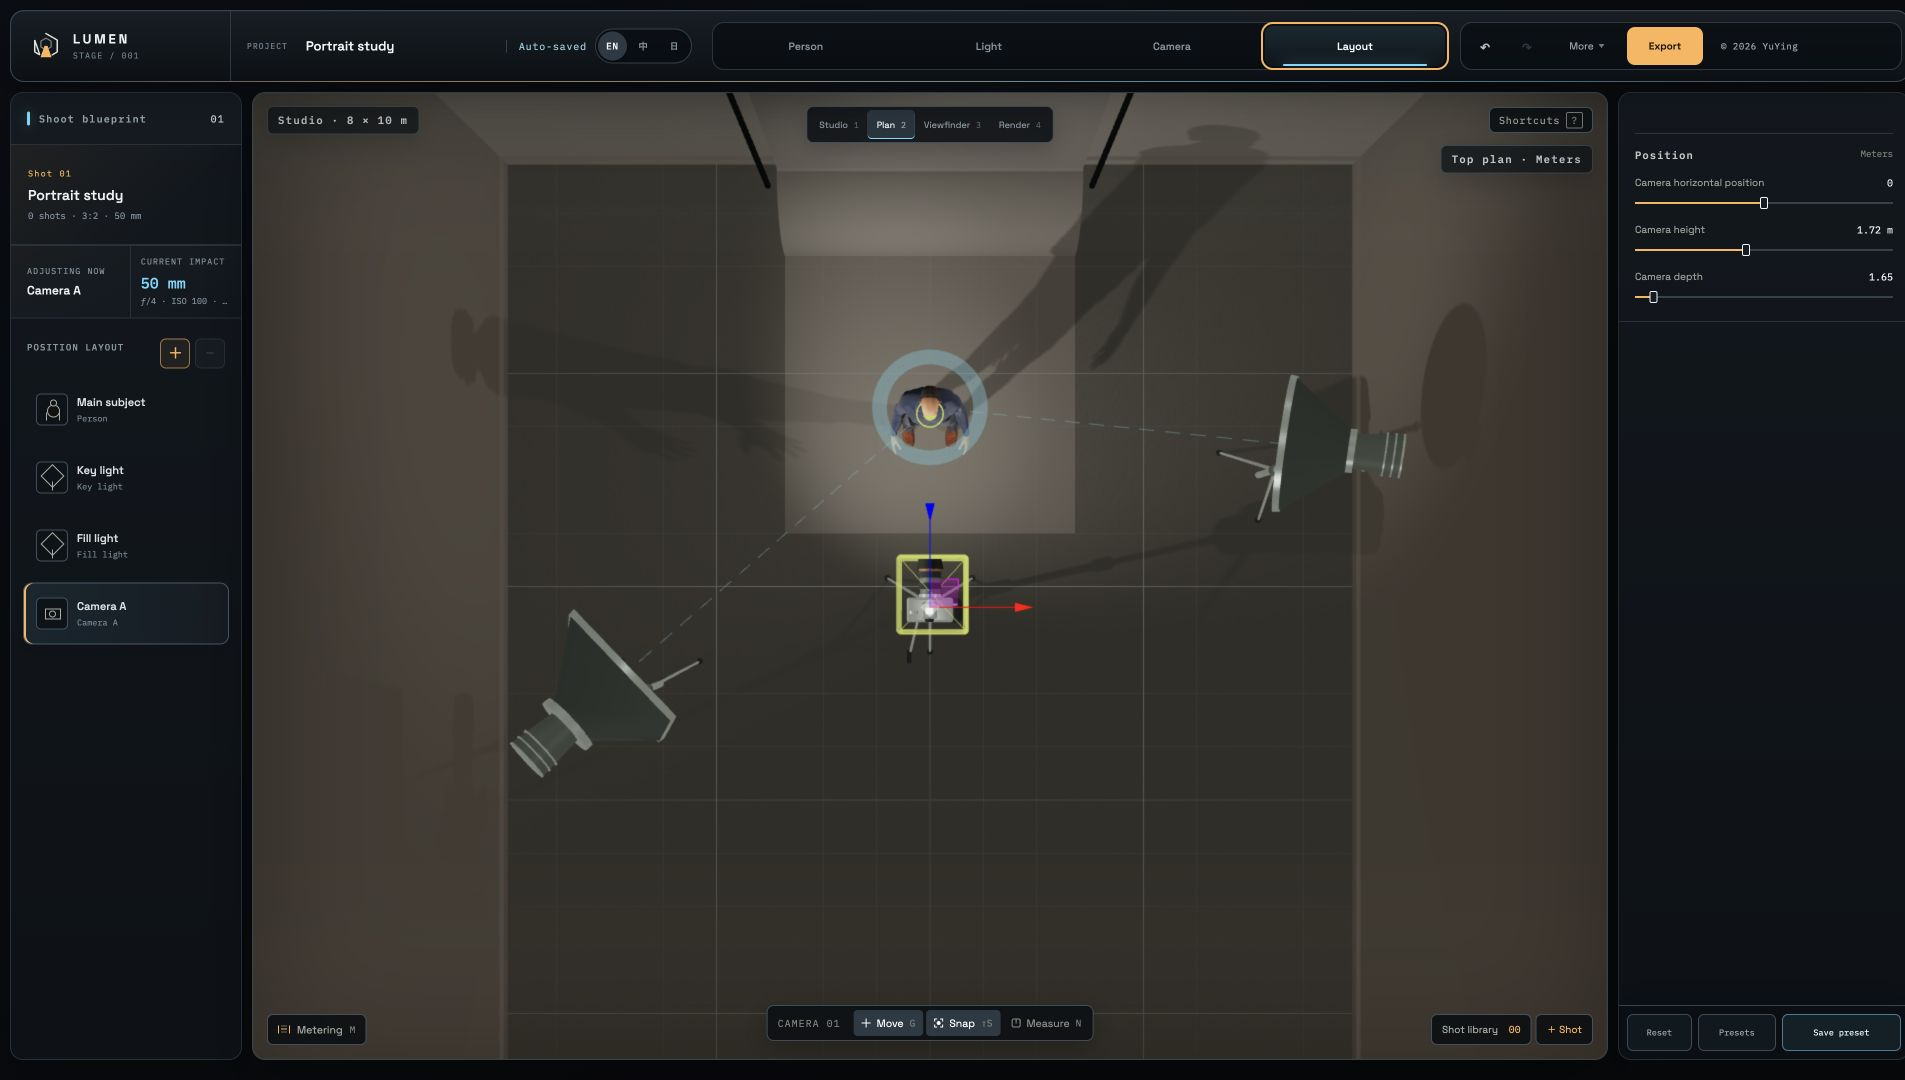
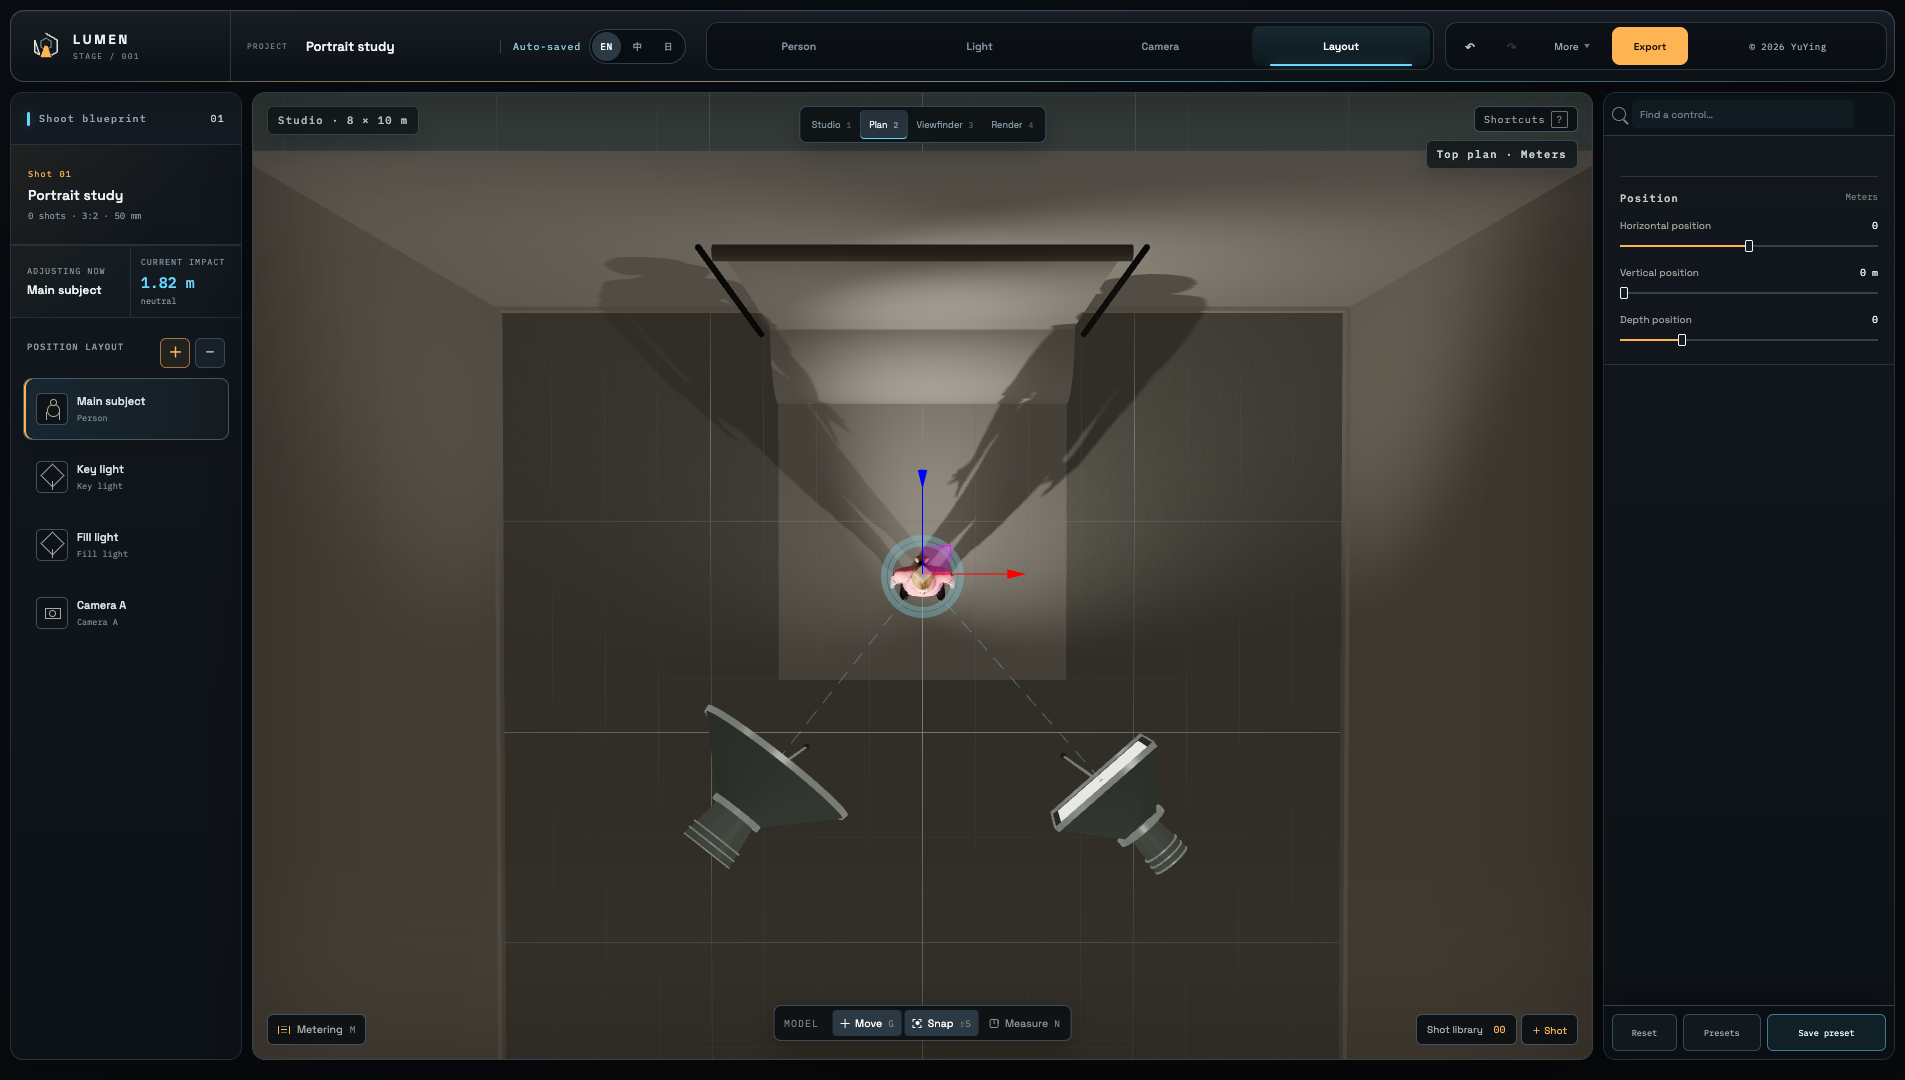
Refresh v1 showcase documentation and visuals in English and Traditional Chinese

diff --git a/README.md b/README.md
@@ -1,65 +1,91 @@
-# Lumen Stage
+# Lumen Stage · v1
 
 **Plan the light. Frame the shot.**
 
-Lumen Stage is a browser-based virtual photography studio for planning lighting, camera, subject, and backdrop decisions before a real shoot.
+A browser-based virtual photography studio for arranging people, lights, cameras and backdrops before a real shoot.
 
-[Open the live website](https://lumen-stage.vercel.app/)
+**First release** · Free to use · Desktop and mobile · English / 繁體中文 / 日本語
 
-![Lumen Stage virtual photography studio](lumen-stage-cover.jpg)
+[Open Lumen Stage](https://lumen-stage.vercel.app/) · [繁體中文介紹](README.zh-TW.md)
 
-## What it helps you plan
+![Lumen Stage v1 homepage, with the shared dark, cyan and amber visual system](homepage-v1.png)
 
-- Build a scene with subjects, lights, cameras, and backdrops in one shared 3D space.
-- Work with photographic controls such as distance, focal length, aperture, illuminance, colour temperature, and modifiers.
-- Review the studio, camera frame, rendered result, and top-down layout without rebuilding the setup.
-- Start from 15 classic lighting setups, including Rembrandt, three-point, and clamshell lighting.
-- Save projects locally, compare decisions, and export a setup for use on set.
+## From an idea to a shoot plan
 
-## Two workspace modes
+1. **Choose a starting point.** Load one of 15 lighting setups, including Rembrandt, three-point and clamshell lighting.
+2. **Choose your subject.** Browse the studio's 12 character options, then adjust position, height and pose.
+3. **Arrange the light.** Work with distance, direction, output, colour temperature and light modifiers.
+4. **Frame the photograph.** Adjust focal length, aperture and ISO; check the viewfinder before rendering.
+5. **Take the plan with you.** Save the scene, export the project or prepare a lighting setup sheet.
 
-**Simple mode** keeps the essential controls visible for first-time users and photography learners.
+![Three built-in lighting setup examples on the v1 website](lighting-setups-v1.png)
 
-**Professional mode** provides the complete lighting, camera, metering, continuity, preset, and export workflow.
+## A scene you can work in
 
-Both modes use the same scene format, so a project can move between them without being rebuilt.
+### Position people and lights
 
-## A continuous photography workflow
+![Professional workspace showing a selected key light and the shared 3D scene](studio-workspace.png)
 
-### Arrange the scene
+The subject, lights, camera and backdrop occupy the same measurable space. In Layout view, drag unlocked objects directly in the viewport, including with touch. Use the numeric controls when you need a precise position.
 
-![The Lumen Stage studio workspace](studio-workspace.png)
+### Check the layout from above
 
-Position the subject, build the lighting pattern, and adjust the scene with measurable spatial controls.
+![Top-down view showing the subject, lights, camera and backdrop](layout-view.png)
 
-### Confirm the layout
+Switch between studio, top-down plan, viewfinder and render views while keeping the same scene. The plan view makes spacing and lighting direction easier to inspect.
 
-![Top-down layout view](layout-view.png)
+### Confirm framing and exposure
 
-Review the relationship between the subject, lights, camera, and backdrop from above before going on set.
+![Simple workspace showing the camera view and focal length, aperture and ISO controls](camera-preview-v1.png)
 
-### Review the result
+Check focal length, aperture, ISO and framing in Simple mode, or use the fuller camera controls in Professional mode. Higher-quality rendering is also available; rendering speed depends on the device and scene.
 
-![Rendered lighting preview](render-preview.webp)
+These are screenshots of a virtual studio, not photographs from a physical shoot. The simulation helps compare decisions; final exposure and colour still need to be checked on set.
 
-Compare the live workspace with a higher-quality render to judge exposure, shadow direction, and detail.
+## Choose the person in front of the lens
 
-## Availability
+The homepage presents a large character preview alongside a selector for all 12 v1 options. The previews have transparent backgrounds and come from the studio's original 3D models.
 
-- Public beta
-- Free to use
-- No installation required
-- No account or credit card required
-- English, Traditional Chinese, and Japanese interfaces
-- Desktop and mobile workspaces
+<p>
+  <img src="cast-business-female.webp" alt="Business character preview from the v1 cast" height="350" />
+  <img src="cast-work-jacket.webp" alt="Work-jacket character preview from the v1 cast" height="350" />
+</p>
 
-## Privacy
+Select another character to change the available build, face and clothing. Clothing and colour are baked into these characters' textures; selecting a different outfit is not the same as freely recolouring or reshaping a person.
 
-Projects stay in the browser by default. Lumen Stage does not require an account and does not use project scenes as a public dataset.
+## Two ways to work
 
-## Repository access
+| | Simple mode | Professional mode |
+| --- | --- | --- |
+| Best for | Getting started, quick adjustments and mobile use | Detailed planning and control |
+| Workspace | Essential Person, Light, Camera and Layout controls | Full inspectors, metering, continuity, presets and export tools |
+| Scene | Shared project format | Shared project format |
 
-This repository is a private product showcase. It contains product information and selected visuals only. The application source code and development history are maintained separately and are not included here.
+[Open Simple mode](https://lumen-stage.vercel.app/studio?ui=mobile) · [Open Professional mode](https://lumen-stage.vercel.app/studio?ui=full)
+
+## Included in the first release
+
+- One navigation bar ordered to match the page, with a compact mobile menu.
+- Scene images paired with clear, labelled settings previews.
+- A selectable cast with larger transparent character previews.
+- Task-specific illustrated onboarding and direct viewport dragging in Layout.
+- Shared model loading and visible loading feedback for studio characters.
+- English, Traditional Chinese and Japanese interfaces.
+- An explicit **v1 · First release** marker in the About dialog.
+
+## Your projects and data
+
+Projects stay in the browser by default. There is no account requirement or behavioural analytics. Anonymous technical error reports may be sent, without scenes, photos, project names or imported files.
+
+Export important projects as a backup. A scene-sharing link carries the scene data in its URL, so share it only with people you intend to give access to.
+
+[Privacy](https://lumen-stage.vercel.app/privacy) · [Support and feedback](https://lumen-stage.vercel.app/support)
+
+## About this repository
+
+This repository contains product documentation and selected visuals. Application source code and development history are maintained separately.
+
+The v1 visuals show the released interface and its studio assets. Homepage settings previews explain the controls; they are not interactive Studio inspectors. Character assets derive from [Microsoft Rocketbox](https://github.com/microsoft/Microsoft-Rocketbox), distributed under the MIT licence.
 
 ---
 

diff --git a/README.zh-TW.md b/README.zh-TW.md
@@ -1,0 +1,92 @@
+# Lumen Stage · v1 第一版
+
+**進棚拍攝前，先排好燈位，再決定畫面。**
+
+Lumen Stage 是在瀏覽器中使用的虛擬攝影棚。把人物、燈具、相機與背景放進同一個空間，預演下一次拍攝。
+
+**第一版已發布** · 免費使用 · 支援桌機與手機 · 繁體中文 / English / 日本語
+
+[開啟正式網站](https://lumen-stage.vercel.app/) · [English](README.md)
+
+![第一版首頁：網站與 Studio 共用深色、青藍與暖金配色；圖中為英文介面](homepage-v1.png)
+
+## 從想法到拍攝方案
+
+1. **選擇起點：**從 15 組燈位配置開始，包括林布蘭光、三點布光與蚌殼光。
+2. **選好主角：**瀏覽第一版的 12 個人物選項，再調整位置、身高與姿勢。
+3. **安排燈光：**調整距離、方向、輸出功率、色溫與塑光附件。
+4. **確認取景：**調整焦段、光圈與 ISO，確認鏡頭畫面後再算圖。
+5. **帶到現場：**儲存場景、匯出專案，或準備燈位工作表。
+
+![第一版提供的三組經典燈位範例](lighting-setups-v1.png)
+
+## 在同一個場景裡完成規劃
+
+### 安排人物與燈具
+
+![專業模式中選取主燈，查看人物、燈具、相機與背景的相對位置](studio-workspace.png)
+
+在 Layout／配置檢視中，可以直接拖曳畫面內未鎖定的物件，手機也能用觸控移動。需要精確定位時，再使用數值控制。
+
+### 從上方確認位置
+
+![俯視配置畫面，顯示人物、燈具、相機與背景](layout-view.png)
+
+棚內、俯視、取景與成像檢視共用同一個場景，不必重新建立配置。從上方檢查間距與燈光方向，再回到鏡頭畫面確認構圖。
+
+### 檢查取景與曝光
+
+![簡易模式的鏡頭畫面，以及焦段、光圈與 ISO 設定](camera-preview-v1.png)
+
+簡易模式保留核心相機控制，專業模式提供更完整的調整。也能使用高畫質算圖；算圖速度會依裝置與場景而不同。
+
+這些是虛擬攝影棚截圖，不是現場實拍照片。模擬用於比較拍攝決策，正式曝光與顏色仍需在現場確認。
+
+## 選擇鏡頭前的人物
+
+首頁以一張大幅人物預覽搭配選單，呈現第一版的 12 個人物選項。主圖與縮圖使用原始 3D 模型輸出的透明背景素材。
+
+<p>
+  <img src="cast-business-female.webp" alt="第一版商務人物的透明背景預覽" height="350" />
+  <img src="cast-work-jacket.webp" alt="第一版工作外套人物的透明背景預覽" height="350" />
+</p>
+
+不同人物提供不同的體型、臉部與服裝。這批人物的衣服與顏色已包含在貼圖中，因此更換人物不等於可以任意替同一個人改色或塑形。
+
+## 兩種工作方式
+
+| | 簡易模式 | 專業模式 |
+| --- | --- | --- |
+| 適合 | 入門、快速調整與手機操作 | 細部規劃與精確控制 |
+| 介面 | 人物、佈光、相機、配置的核心操作 | 完整設定、測光、光線連戲、預設與匯出工具 |
+| 專案 | 共用場景格式 | 共用場景格式 |
+
+[開啟簡易模式](https://lumen-stage.vercel.app/studio?ui=mobile) · [開啟專業模式](https://lumen-stage.vercel.app/studio?ui=full)
+
+## 第一版包含
+
+- 與頁面順序一致的單一導覽列，以及手機選單。
+- 左側場景搭配右側清晰設定預覽的功能展示。
+- 可切換的大幅人物預覽與透明背景素材。
+- 對應各操作的入門示意，以及 Layout 畫面內直接拖曳。
+- 人物模型共用載入與可見的載入提示。
+- 繁體中文、英文與日文介面。
+- 關於視窗底部的 **v1 · 第一版** 標示。
+
+## 專案與資料
+
+專案預設保存在瀏覽器中，不需要帳號，也沒有行為分析。系統可能送出匿名技術錯誤回報，但不包含場景、照片、專案名稱或匯入檔案。
+
+重要專案請匯出備份。場景分享連結會將場景資料放在網址中，請只分享給你希望授權查看的人。
+
+[隱私說明](https://lumen-stage.vercel.app/privacy) · [支援與回報](https://lumen-stage.vercel.app/support)
+
+## 關於這個 Repo
+
+這裡提供產品介紹與展示素材，應用程式原始碼及開發紀錄另外維護。
+
+展示圖使用第一版介面與棚內素材；首頁設定預覽用於說明，並非可直接操作的 Studio 設定面板。人物素材來自採 MIT 授權的 [Microsoft Rocketbox](https://github.com/microsoft/Microsoft-Rocketbox)。
+
+---
+
+© 2026 YuYing · Lumen Stage
